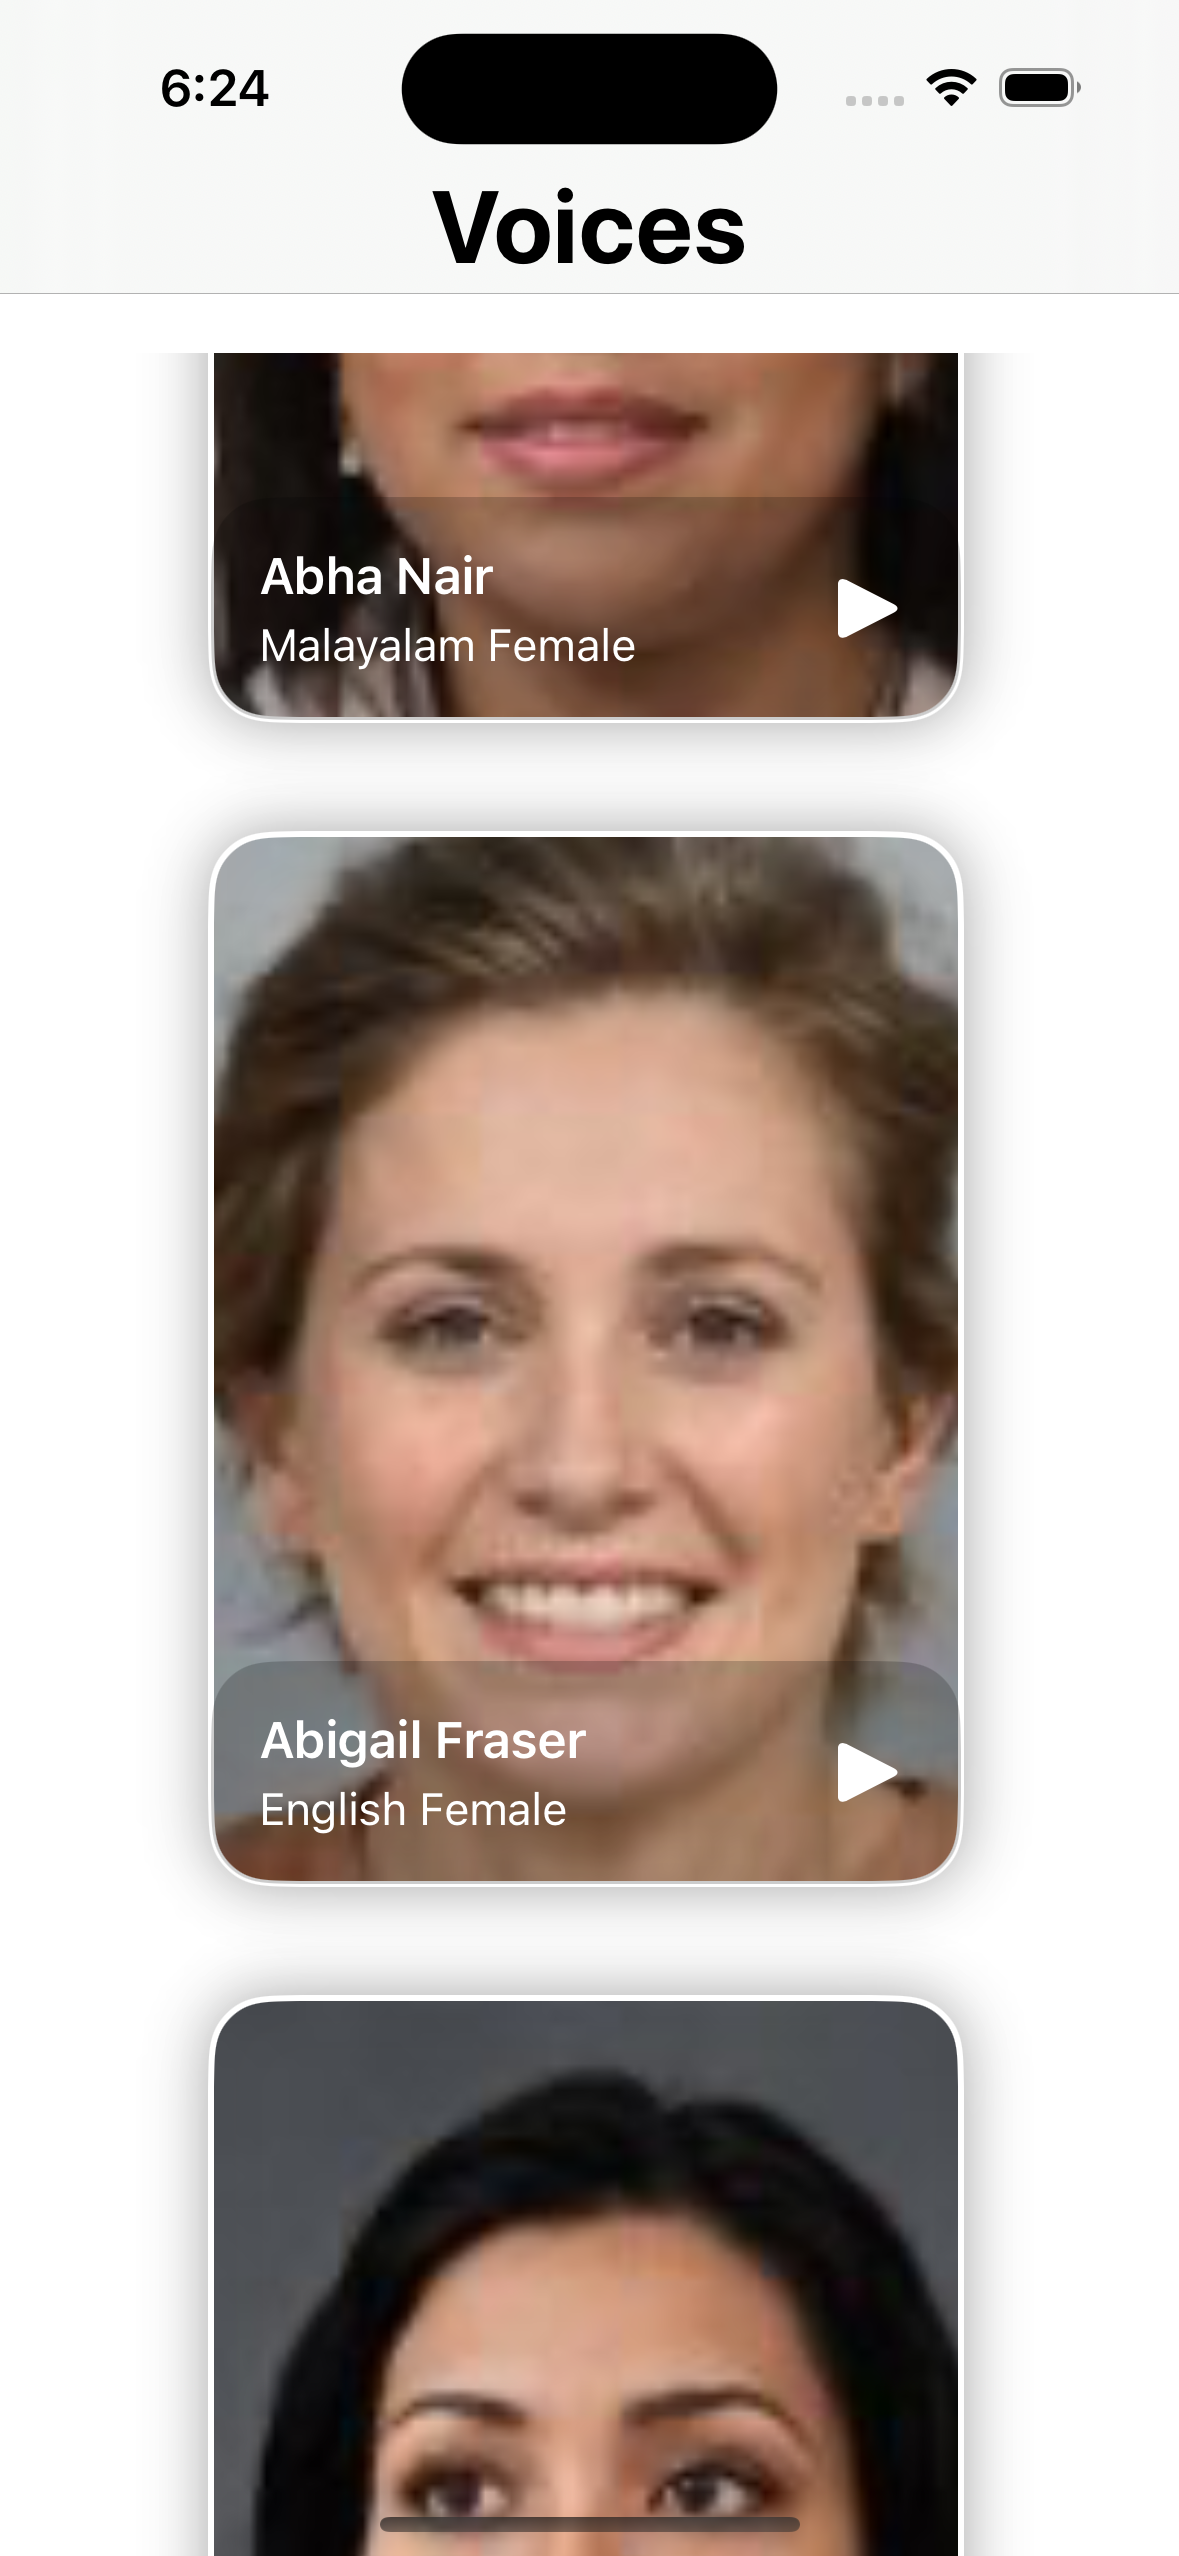
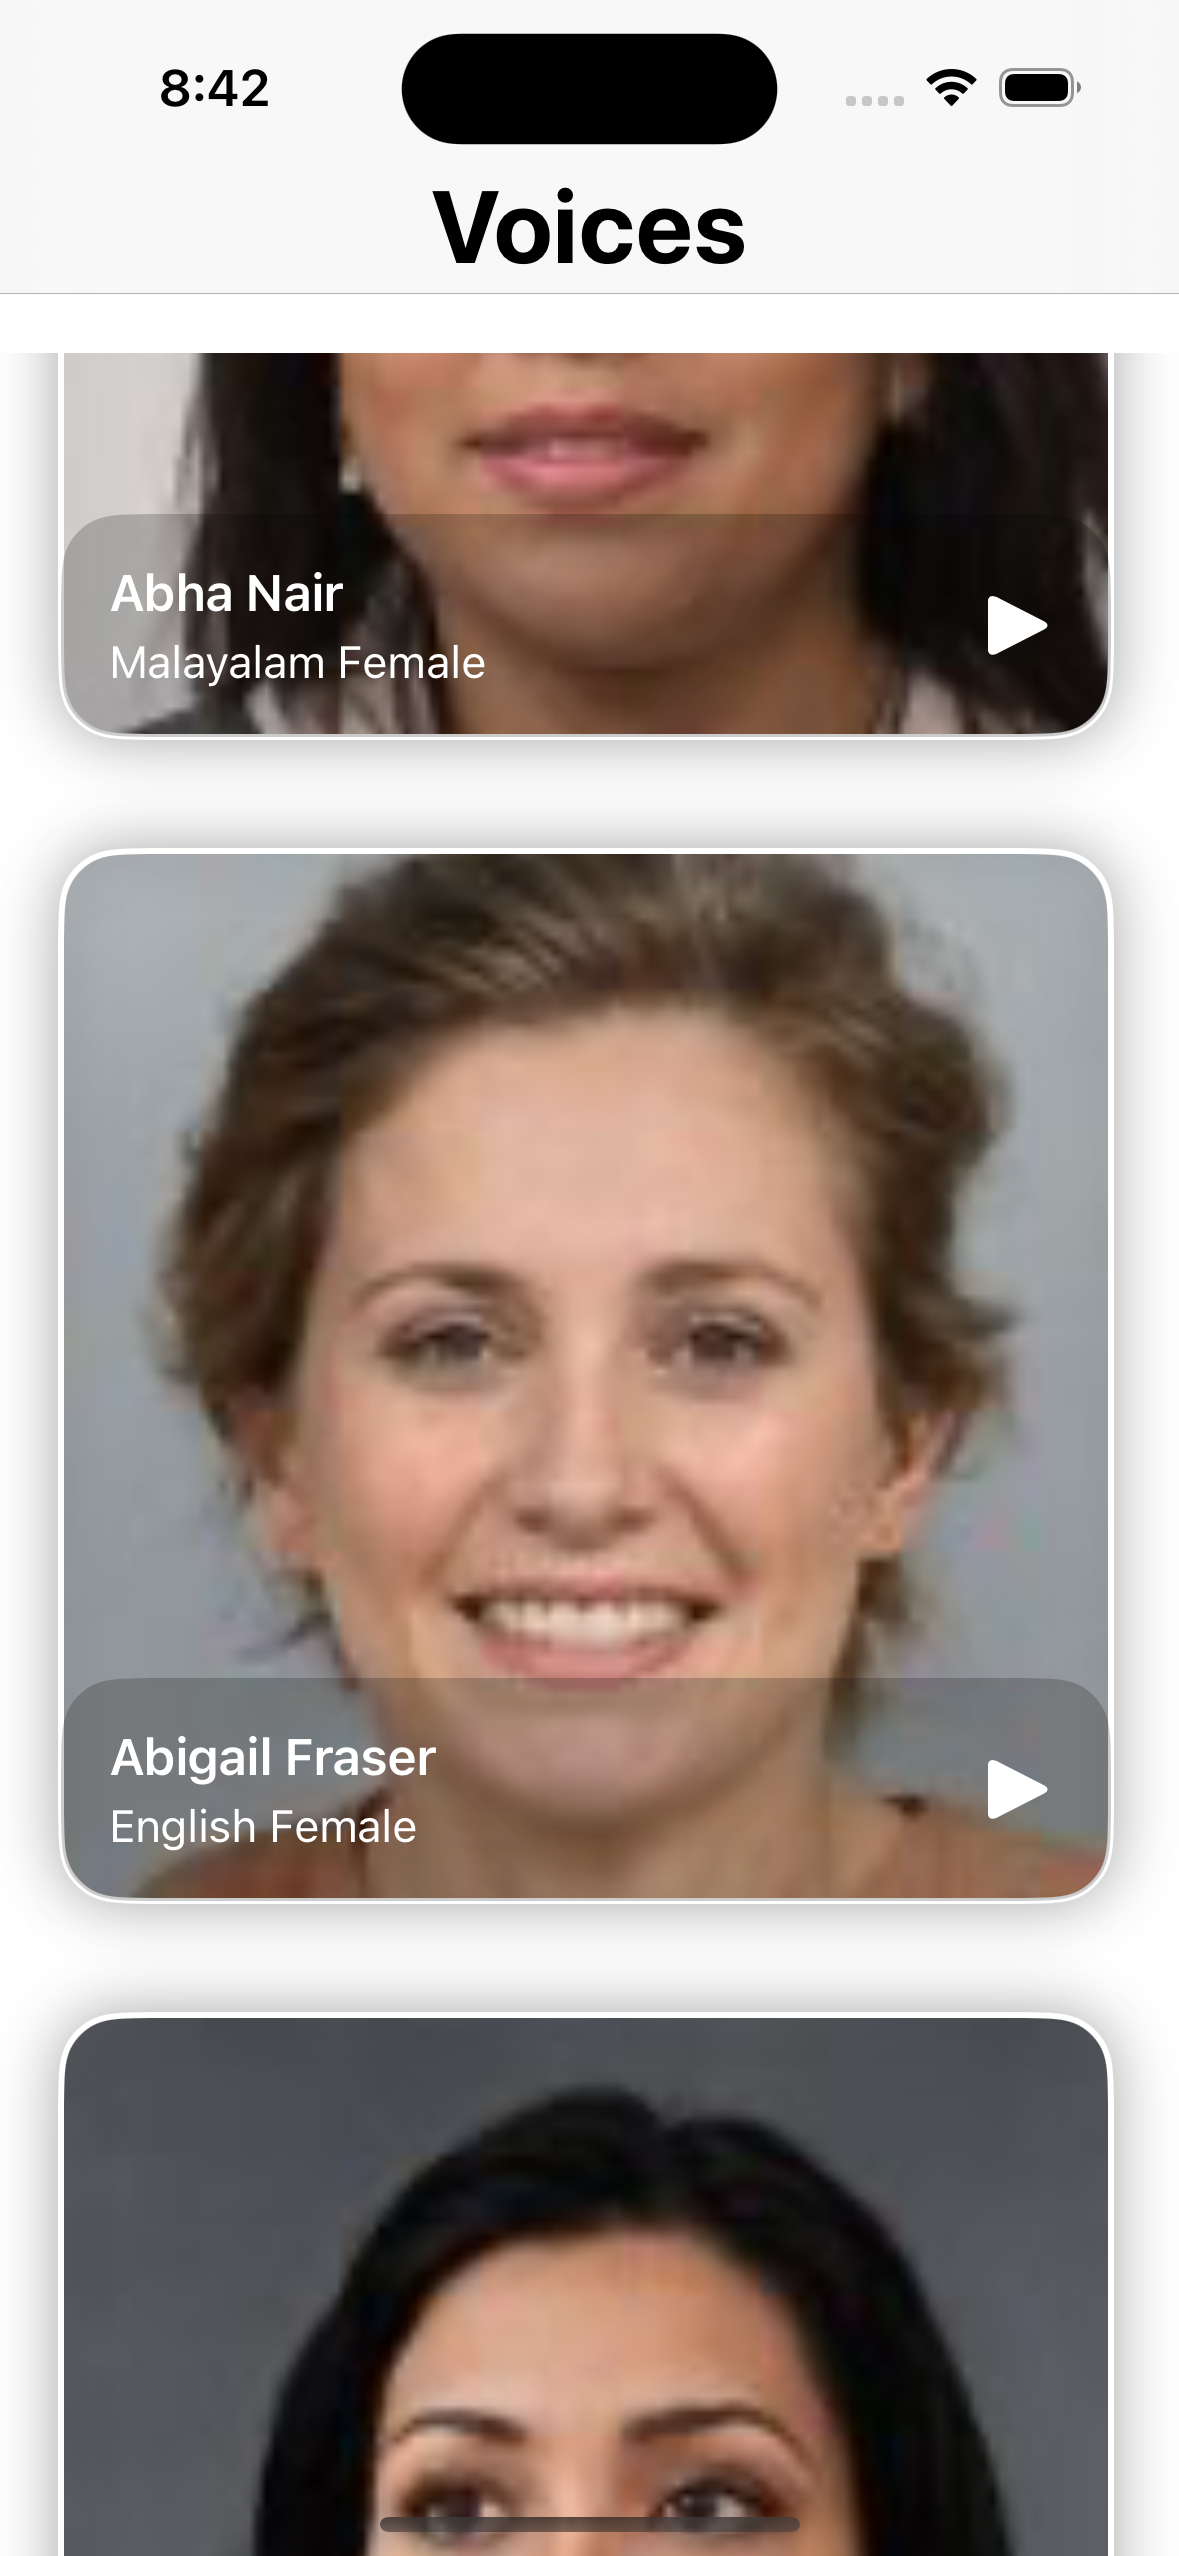
Code optimisation.

diff --git a/LovoAIVoices/Views/VoiceListItemView.swift b/LovoAIVoices/Views/VoiceListItemView.swift
@@ -9,8 +9,9 @@ import Foundation
 import SwiftUI
 
 @MainActor
-struct VoiceCell: View {
+struct VoiceListItemView: View {
     @ObservedObject var voiceViewModel: VoiceViewModel
+    @ObservedObject var imageCache: ImageCache
     private let locale: Locale = .current
 
     var voice: Voice {
@@ -19,20 +20,16 @@ struct VoiceCell: View {
 
     var body: some View {
         ZStack(alignment: .bottom) {
-            AsyncImage(url: voice.imageUrl, content: { image in
-                image
-                    .resizable()
-                    .scaledToFill()
-                    .frame(width: 250, height: 350)
-                    .clipShape(RoundedRectangle(cornerRadius: 20))
-                    .overlay(
-                        RoundedRectangle(cornerRadius: 20)
-                            .stroke(Color.white, lineWidth: 2)
-                    )
-                    .shadow(radius: 10)
-            }, placeholder: {
-                ProgressView()
-            })
+            Group {
+                if let personImage = imageCache.getImage(for: voice) {
+                    StyledImageView(image: personImage)
+                } else {
+                    ProgressView()
+                        .onAppear() {
+                            imageCache.fetchImage(for: voice)
+                        }
+                }
+            }
 
             HStack {
                 VStack(alignment: .leading, spacing: 4) {
@@ -46,7 +43,7 @@ struct VoiceCell: View {
                         .foregroundColor(.white)
                 }
                 .padding()
-
+                
                 Spacer()
 
                 ZStack {
@@ -60,7 +57,7 @@ struct VoiceCell: View {
                 }
                 .padding()
             }
-            .frame(width: 250)
+            .frame(width: 350)
             .background(Color.primary.opacity(0.2))
             .clipShape(RoundedRectangle(cornerRadius: 20, style: .continuous))
             .cornerRadius(12)
@@ -69,9 +66,10 @@ struct VoiceCell: View {
     }
 }
 
-struct VoiceCell_Previews: PreviewProvider {
+struct VoiceListItemView_Previews: PreviewProvider {
     static var previews: some View {
-        VoiceCell(voiceViewModel: .init(voice: .mock))
+        let imageCache = ImageCache()
+        VoiceListItemView(voiceViewModel: .init(voice: .mock), imageCache: imageCache)
             .previewLayout(.sizeThatFits)
     }
 }

diff --git a/LovoAIVoices/Screens/VoiceListView.swift b/LovoAIVoices/Screens/VoiceListView.swift
@@ -9,17 +9,18 @@ import Foundation
 import SwiftUI
 
 struct VoiceListView: View {
+    @StateObject private var imageCache = ImageCache()
     @StateObject var voicesPageViewModel = VoicesPageViewModel(voicesDataSource: VoicesDataSource.init())
 
     var body: some View {
         NavigationStack {
             List(voicesPageViewModel.voices) { voice in
                 NavigationLink(
-                    destination: VoiceDetailView(voice: voice),
+                    destination: VoiceDetailView(imageCache: imageCache, voice: voice),
                     label: {
                         HStack(spacing: 50) {
                             Spacer()
-                            VoiceCell(voiceViewModel: .init(voice: voice))
+                            VoiceListItemView(voiceViewModel: .init(voice: voice), imageCache: imageCache)
                                 .onAppear {
                                     if voice == voicesPageViewModel.voices.last {
                                         voicesPageViewModel.fetchNextpage()
@@ -29,11 +30,10 @@ struct VoiceListView: View {
                         }
                     }
                 )
-
                 .foregroundStyle(.clear)
+                .listRowSeparator(.hidden)
                 .padding(.bottom)
                 .padding(.leading)
-                .listRowSeparator(.hidden)
             }
             .onAppear {
                 voicesPageViewModel.fetchVoices()

diff --git a/LovoAIVoices/Screens/VoiceDetailView.swift b/LovoAIVoices/Screens/VoiceDetailView.swift
@@ -8,12 +8,21 @@
 import SwiftUI
 
 struct VoiceDetailView: View {
+    @ObservedObject var imageCache: ImageCache
     let voice: Voice
 
     var body: some View {
         CenteredTitleView(title: voice.displayName)
         VStack {
-            HeaderView(voice: voice)
+            if let imageView = imageCache.getImage(for: voice) {
+                StyledImageView(image: imageView)
+            } else {
+                ProgressView()
+                    .onAppear {
+                        imageCache.fetchImage(for: voice)
+                    }
+            }
+            Spacer().frame(height: 20)
             VoiceInfoView(voice: voice)
                 .offset(y: -50)
             Spacer()
@@ -22,5 +31,5 @@ struct VoiceDetailView: View {
 }
 
 #Preview {
-    VoiceDetailView(voice: Voice.mock)
+    VoiceDetailView(imageCache: ImageCache(), voice: Voice.mock)
 }

diff --git a/LovoAIVoices/Views/VoiceInfoView.swift b/LovoAIVoices/Views/VoiceInfoView.swift
@@ -26,13 +26,14 @@ struct VoiceInfoView: View {
     var body: some View {
         HStack(alignment: .center) {
             audioVisualizer
-                .offset(y: -90)
+                .offset(y: -30)
                 .opacity(showAudioVisualizer ? 1 : 0)
                 .onReceive(NotificationCenter.default.publisher(for: .AVPlayerItemDidPlayToEndTime)) { _ in
                     showAudioVisualizer = false
                 }
 
         }
+
         HStack(alignment: .top) {
             VStack(alignment: .leading, spacing: 4) {
                 HStack {
@@ -71,7 +72,6 @@ struct VoiceInfoView: View {
                     .fill(Color.gray.opacity(0.5))
                     .frame(height: 2)
                     .padding(.vertical, 8)
-
 
                 HStack() {
                     Spacer()

diff --git a/LovoAIVoices/Helpers/ImageCache.swift b/LovoAIVoices/Helpers/ImageCache.swift
@@ -1,0 +1,28 @@
+//
+//  ImageCache.swift
+//  LovoAIVoices
+//
+//  Created by Robbie Elliott on 2024-07-19.
+//
+
+import SwiftUI
+import Combine
+
+class ImageCache: ObservableObject {
+    @Published var imageViews: [String: Image] = [:]
+
+    func fetchImage(for voice: Voice) {
+        guard let url = voice.imageUrl, imageViews[voice.id] == nil else { return }
+
+        URLSession.shared.dataTask(with: url) { data, response, error in
+            guard let data = data, let uiImage = UIImage(data: data) else { return }
+            DispatchQueue.main.async {
+                self.imageViews[voice.id] = Image(uiImage: uiImage)
+            }
+        }.resume()
+    }
+
+    func getImage(for voice: Voice) -> Image? {
+        return imageViews[voice.id]
+    }
+}

diff --git a/LovoAIVoices/Views/StyledImageView.swift b/LovoAIVoices/Views/StyledImageView.swift
@@ -1,0 +1,29 @@
+//
+//  StyledImageView.swift
+//  LovoAIVoices
+//
+//  Created by Robbie Elliott on 2024-07-19.
+//
+
+import SwiftUI
+
+struct StyledImageView: View {
+    let image: Image
+
+    var body: some View {
+        image
+            .resizable()
+            .scaledToFill()
+            .frame(width: 350, height: 350)
+            .clipShape(RoundedRectangle(cornerRadius: 20))
+            .overlay(
+                RoundedRectangle(cornerRadius: 20)
+                    .stroke(Color.white, lineWidth: 2)
+            )
+            .shadow(radius: 10)
+    }
+}
+
+#Preview {
+    StyledImageView(image: Image(systemName: "photo"))
+}
